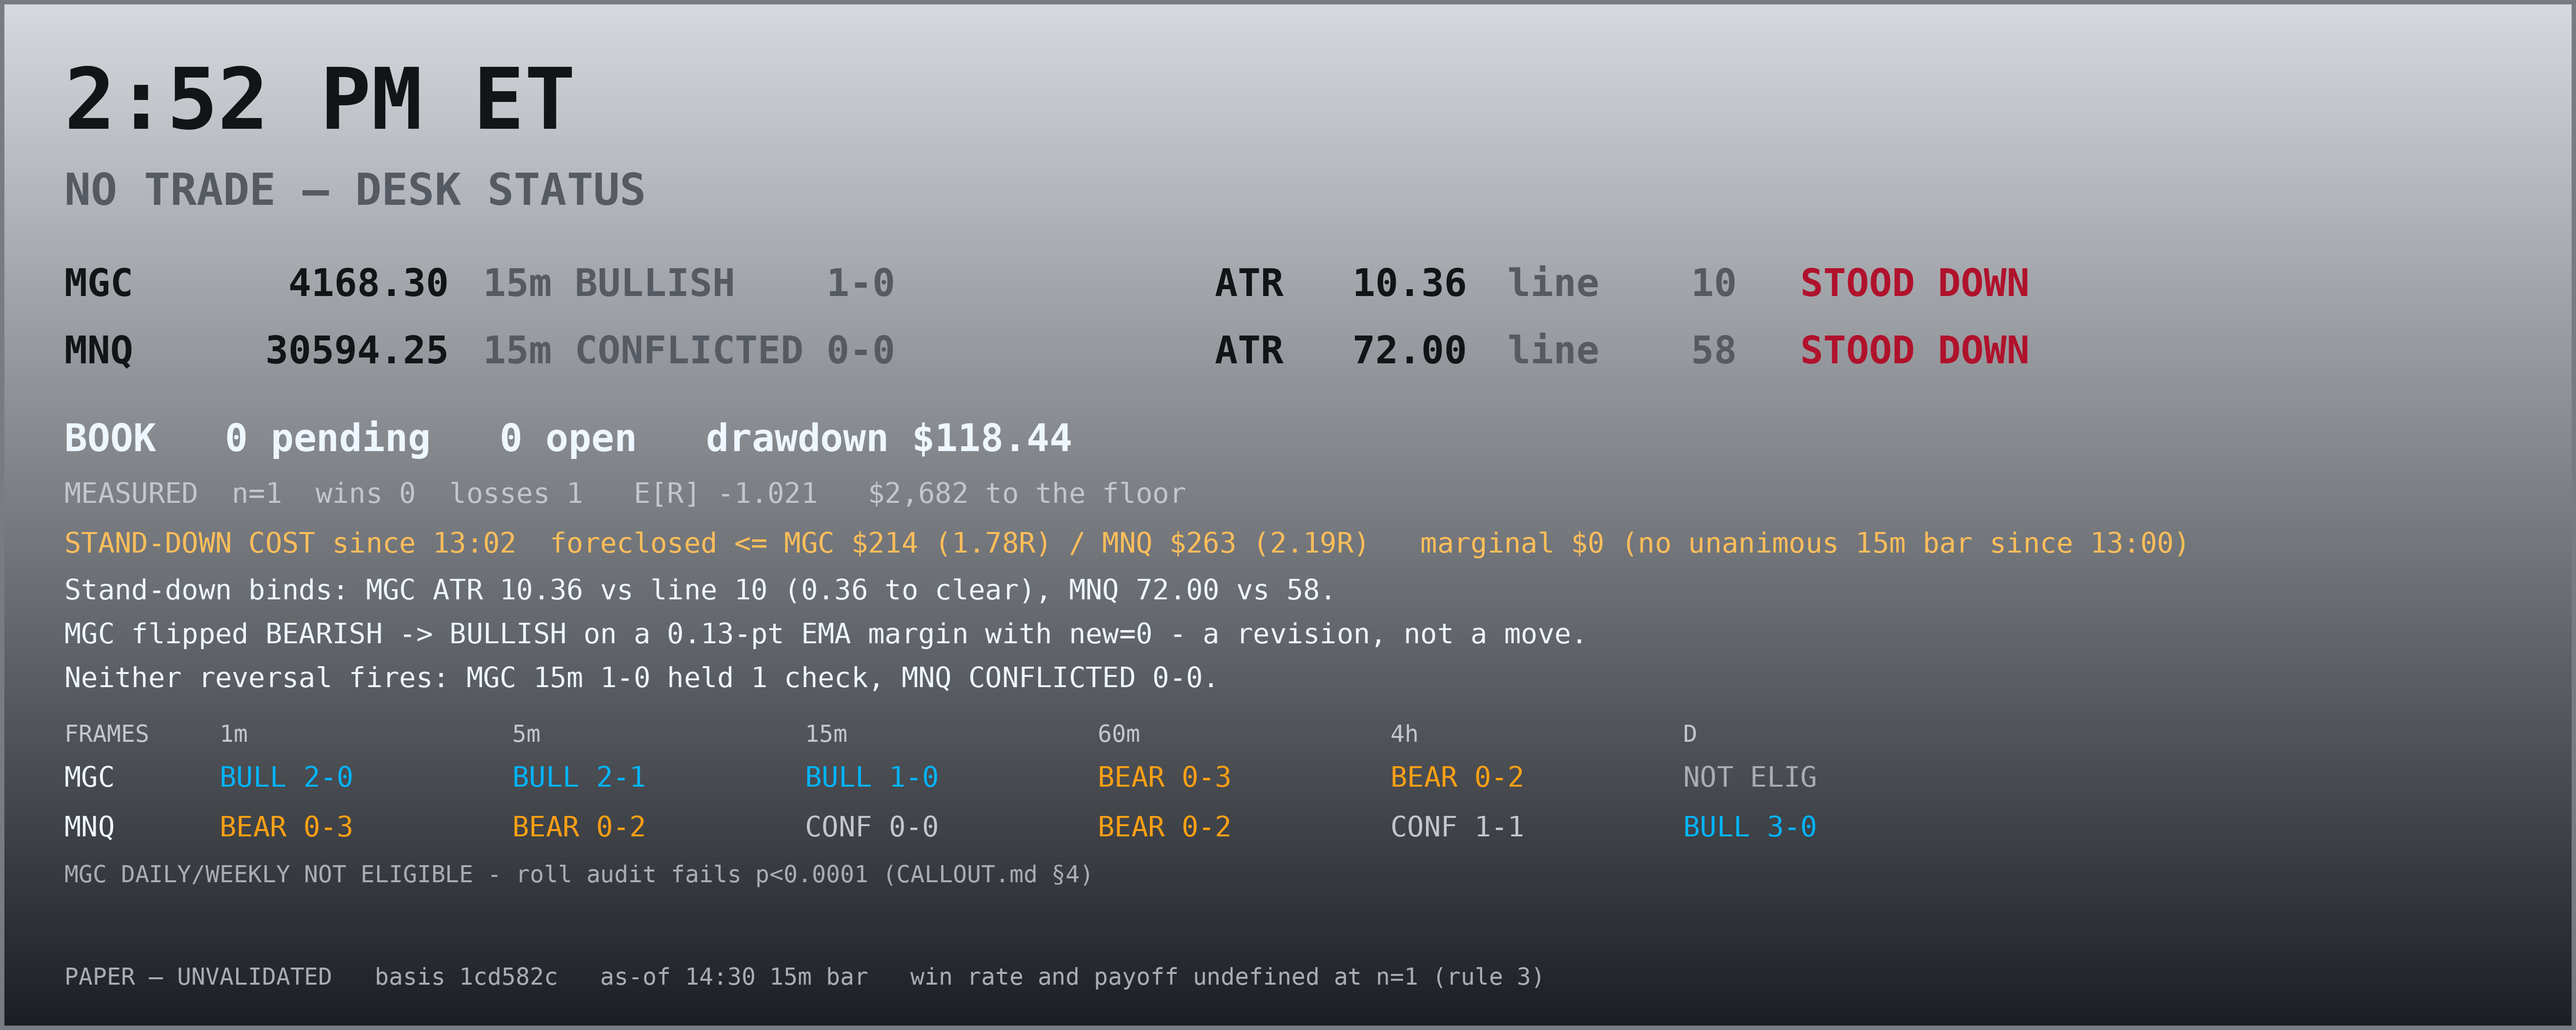
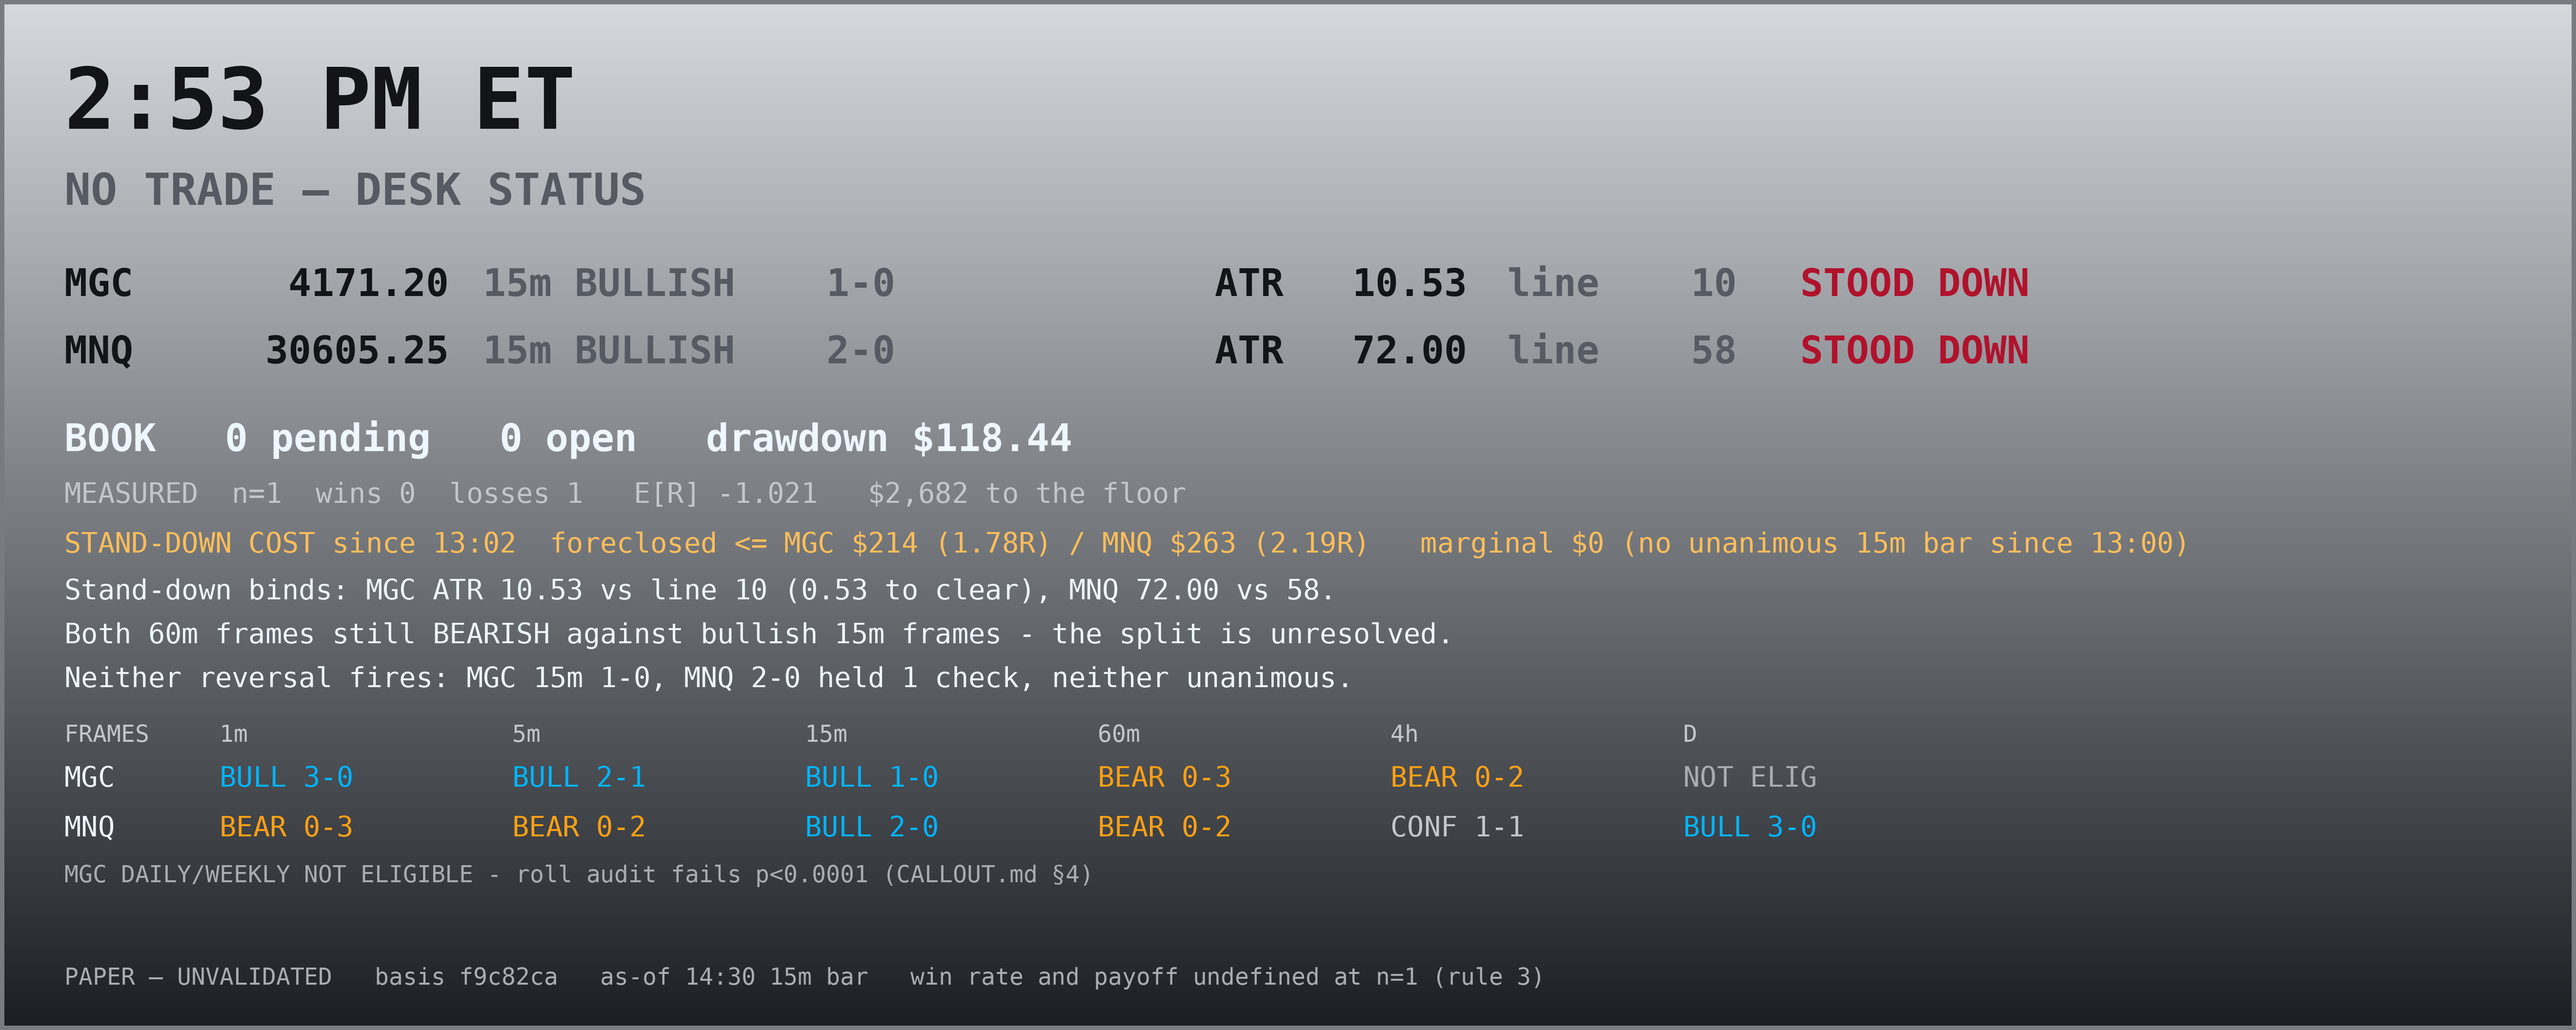
CALL desk: 14:53 hourly full check - cron 5be2e70b verified; both symbols stood down (MGC 10.53, MNQ 72.00); stand-down marginal cost still $0 after 1h51m with zero unanimous 15m bars; measured record n=1
Claude-Session: https://claude.ai/code/session_01EE6PFk7fGa2tM4KP6dpfWD

diff --git a/workspace/paper/CALL/NOTES.md b/workspace/paper/CALL/NOTES.md
@@ -7864,3 +7864,65 @@ it is the form every future change should take.
 - `status_card.py` — when a stand-down binds, the card carries an amber **STAND-DOWN COST** line
   with the foreclosed upper bound and the marginal cost side by side, so the price of the desk's
   caution is visible without anyone asking for it.
+
+# N219 — 14:53 hourly full check: quiet, both stood down, and the stand-down's marginal cost is still zero
+
+Cadence verified by listing: `CronList` returns **`5be2e70b — Every 2 minutes (recurring)`**,
+present, nothing else armed. CALLOUT.md re-read in full, unchanged since `1948339`; the four
+sections added to CHECK_PROCEDURE.md today (breakout prohibition, unreachable void, the
+card-every-check rule, the decision-costing rule) are all vetoes or delivery rules implemented
+inside my own lane and none contradicts it. Basis `f9c82ca`.
+
+**ATRs re-measured, inherited from nothing:**
+
+    MGC  10.53  1.0x = $105.29 = 43.9% of $240  cap binds 1.14x  | line 10 -> STOOD DOWN (0.53 to clear)
+    MNQ  72.00  1.0x = $144.00 = 60.0% of $240  cap binds 0.83x  | line 58 -> STOOD DOWN (14.00 to clear)
+
+MGC has spent the last hour oscillating between 10.36 and 10.54 — **half a point above its line
+and not crossing it.** Worth naming plainly: the stand-down has been a *near*-miss on MGC for
+nine consecutive checks, which is exactly the situation where a threshold starts to feel
+arbitrary and the temptation is to move it. **The line is 10 because the measurement put the
+25% contour there (N214), not because 10 is a round number, and it is not moving because MGC
+keeps sitting just above it.**
+
+**Settled frames first (N41/N47):**
+
+    MGC 60m  BEARISH 0-3  close 4167.30 < EMA20 4205.70 falling  location 11.6% of [4143.00, 4351.60]
+    MNQ 60m  BEARISH 0-2  close 30626.00 < EMA20 30651.95 falling location 42.0% of [30356.50, 30998.50]
+    MGC 15m  BULLISH 1-0  location 46.4% of [4143.00, 4203.80]
+    MNQ 15m  BULLISH 2-0  location 61.8% of [30356.50, 30759.25]
+
+**Both 60m frames remain BEARISH**, MGC's unanimously, against 15m frames that are bullish on
+both. That split has held all afternoon and neither side has resolved it.
+
+**No callout.** Neither reversal fires. `thesis.py` prints an empty table — nothing live to
+track for the second hourly check running.
+
+### Ledger — win rate and payoff together (rule 3)
+
+    journal 25 | pending.jsonl: 3 EXPIRED, 2 TRIGGERED, 1 VOID_UNREACHABLE, 0 PENDING
+    ambiguous-bar resolutions: 0
+
+    state.json  equity $50,038.12  peak $50,156.56  drawdown $118.44  open 0  closed 2
+                CALL-0002  WIN  +1.566R  <- EXCLUDED FROM MEASUREMENT (N155)
+                CALL-0006  LOSS -1.021R  <- the only countable trade
+
+    MEASURED, n = 1:
+      closed 1 | wins 0 | losses 1
+      win rate 0.0% WITH payoff UNDEFINED - no winner exists to form the ratio; at n = 1
+        neither is a rate, they are one trade
+      expectancy -1.021R
+      measured equity $49,881.56   measured drawdown $118.44
+      distance to the $2,800 absorbing state: $2,681.56 (95.8% of the buffer intact)
+
+### The decision cost, per N218 — this is now part of every full check
+
+    STAND-DOWN, 13:02 -> 14:53 (1h 51m)
+      foreclosed (upper bound)   MGC $214 = 1.78R    MNQ $263 = 2.19R
+      marginal                   $0 - still ZERO unanimous 15m bars on either symbol since 13:00
+
+**Marginal is still zero, and I am still not calling that a vindication.** The gate has been
+unable to fire for the whole window, so the veto has had nothing to veto. What the stand-down
+has actually cost so far is the *option* to write a discretionary plan outside the gate — which
+is worth exactly as much as my discretion is, and the measured answer to that today is
+-$118.44 on one trade and a 3x-ATR trend declined on a test that could not be satisfied.
